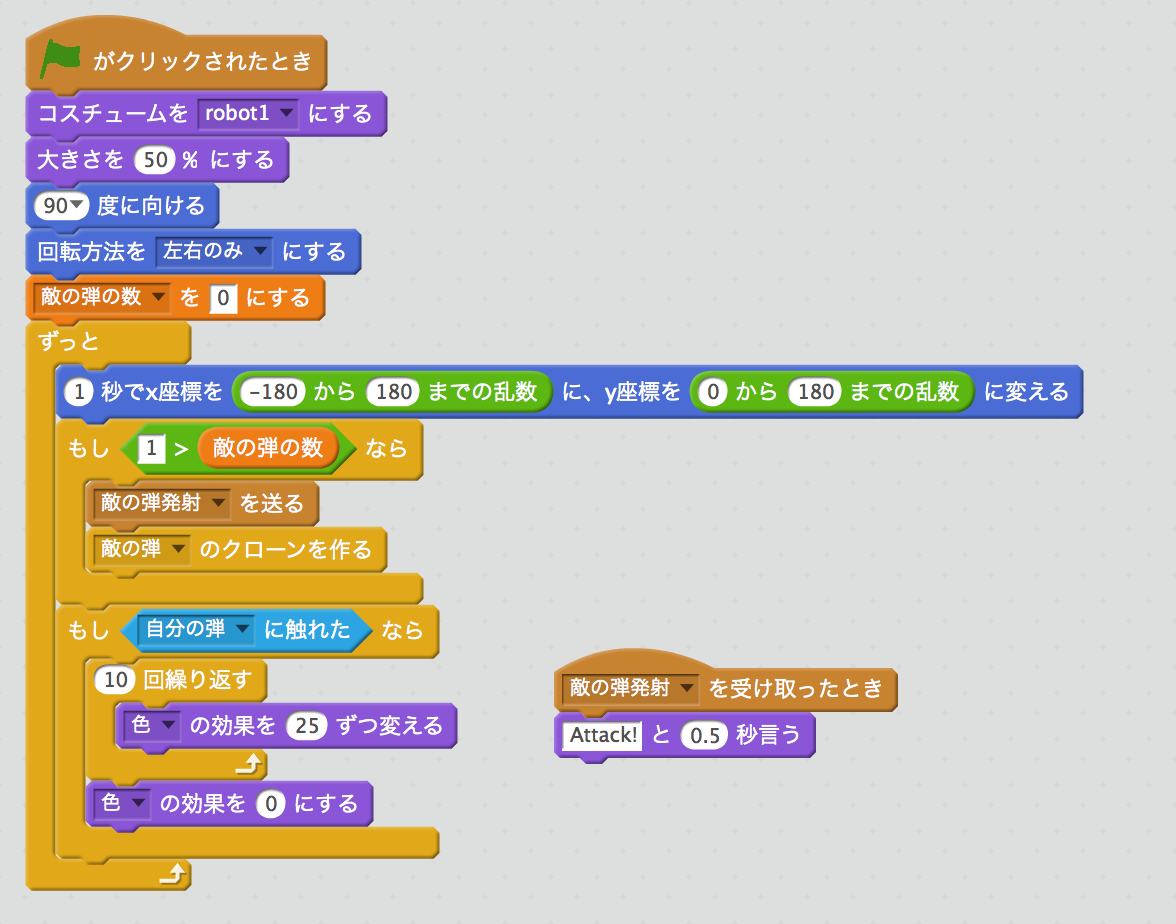
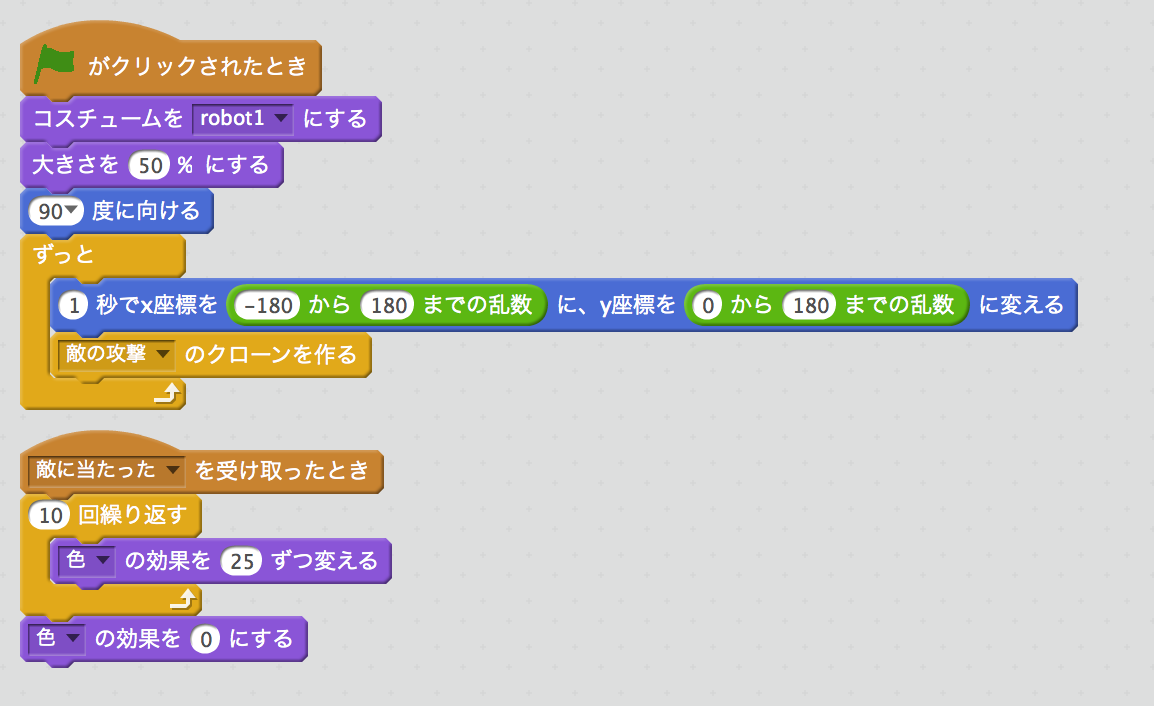
作成手順（途中）

Changed region(s): [[0.0, 0.0, 0.9359, 0.966], [0.4679, 0.6856, 0.7799, 0.8414]]

diff --git a/FirstMission.md b/FirstMission.md
@@ -7,21 +7,71 @@ https://scratch.mit.edu/projects/68155398/
 
 ## 作成手順
 
-### プレイヤーキャラクターの作成
+### プレイヤーキャラクターの表示と移動
 
-1. "プレイヤー"スプライトに好きなキャラクタを設定。
+1. "プレイヤー"スプライトにキャラクタを設定  
+デフォルトのスプライトをプレイヤーが操作するキャラクターとして、"プレイヤー"と名前をつけ好きな画像を設定します。
 
-1. 自分キャラクターの移動処理を作成。
+1. 最初の表示処理  
+スタート時の表示処理を以下の通り作成。これらは無くても動作上問題ないけれど、プログラムを作っている途中でスプライトの状態が変わってしまっても必ず決まった状態でスタートさせることができる。大きさの指定は使うす画像の大きさに合わせて変更する。  
+![プレイヤーの初期表示処理](images/player01.png)
 
-カーソルの左右キーで、プレイヤーを移動。
+1. 自分キャラクターの移動処理  
+カーソル左右キーを押した時の処理を以下の通り作成。
+![プレイヤーの移動処理](images/player02.png)
+「◯◯キーが押された、ではない、まで繰り返す」としているのは、一度キーが押されたら離されるまでずっと移動し続けるためです。
+以下のような処理でも操作はできるようになりますが、キーが離されるまで移動し続ける処理にした方がスムーズに動きます。
+![プレイヤーの移動処理のダメな例](images/player03.png)
 
-![自分キャラの移動](images/move01.png)
+### 敵キャラクターの表示と移動
 
-1. 自分キャラクターの攻撃用スプライトと攻撃処理を作成。
-	* 弾の座標を自分のキャラクターの座標に合わせるには、「○○へ行く」を使う。
-	* 弾のスプライトは、描いた後中央設定をきちんとしておくこと。でないと発射位置がずれる。
+1. 新しいスプライトを敵にキャラクタを設定。  
+新しいスプライトを作成し、"敵"と名前をつけます。
 
-1. 自分のキャラクターを複製して、敵キャラの元を作成。
-1. 自分キャラクターの攻撃用スプライトを複製して、敵の攻撃用スプライトを作る。
-1. 敵キャラの移動処理を変更。
-1. キャラの攻撃処理を変更。
+1. 初期表示処理  
+プレイヤーの時と同様に、初期表示処理を作成します。
+![敵キャラの初期表示処理](images/enemy01.png)
+
+1. 敵キャラの移動処理
+敵キャラは、画面の上半分を自由に移動するように以下の処理を作成します。ここで使っているのは、指定した時間で指定した場所へキャラクタを移動させる部品です。時間を長くするとゆっくり、短くすると速く動きます。ここでは、画面の横方向を端から端まで表示させるために-180から180までを乱数で、縦方向は上半分までを移動させるために0から180までの乱数を使って、ランダムに動くようにしています。
+![敵キャラの移動処理](images/enemy02.png)
+
+### プレイヤーの攻撃
+
+1. 攻撃用スプライトの作成  
+まず、プレイヤーが発射する弾のスプライトを新しいスプライトとして作成し、「プレイヤーの攻撃」と名前をつけます。ライブラリから好きな素材を選んでもいいですし、自分で描いてもいいです。自分で描く場合は「ベクターモード」で描きましょう。「ベクターモード」の方が、綺麗なまま画像を拡大縮小できます。  
+また、「コスチュームの中心」を合わせておきましょう。これをやっておかないと、キャラクタと発射する弾の表示がズレることがあります。「コスチュームの中心」は、「コスチューム」画面の右上にある十字のボタンで合わせられます。
+
+1. 初期表示処理
+攻撃用スプライトは、ゲーム開始時には非表示で、攻撃動作を行った時に表示されなければなりませんので、ゲーム開始時には非表示とします。
+![攻撃用スプライトの初期表示](images/player-attack01.png)
+
+1. 攻撃操作処理
+プレイヤー側は、「スペースキー」を攻撃用操作とします。「プレイヤー」スプライトの中（「プレイヤーの攻撃」ではありません）に「スペースキー」が押された時に先ほど作った「攻撃用スプライト」をクローンする処理を作ります。クローンとはスプライトのコピーを作る機能で、同じキャラクタを複数作ったり、弾をたくさん発射するといったことができます。最後に「0.5秒待つ」を入れているのは、連射になるのを防ぐためです。これを外してスペースキーを押しっぱなしにすると、画面上が弾だらけになるほど連射ができます。
+![攻撃操作処理](images/player-attack02.png)
+
+1. 弾丸スプライト表示処理  
+プレイヤーの操作が行われた時に、弾丸スプラインを移動する処理を以下の通り作成します。  
+処理の開始は、「クローンされた時」になります。このスプライトは最初「非表示」になっているので、プレイヤーのスプライトなどと同じように大きさの設定をし、「プレイヤーへ行く」を実行した後、「表示」を実行します。「プレイヤーへ行く」を実行しているのは、弾丸はプレイヤーと同じ場所から移動を開始しないといけないので、この処理でプレイヤーと同じ場所から表示されるようにするためです。
+![弾丸表示処理](images/player-attack03.png)  
+
+1. 弾丸スプライト移動と当たり判定処理  
+次にこの弾丸を移動する処理を続けて作成します。弾丸は、画面の端に到達するか敵に当たると消えなければならないので、どちらかの条件で「クローンを削除する」を実行します。クローンを削除するとこの弾丸の動作を終了して画面から消えます。  
+ただし、何もせずに消えてしまっては当たったかどうかわからないので、「敵に触れた」時に特別な処理ができるよう「クローンを削除」する前に「敵にあたった」というメッセージを送って、敵キャラに処理を実行させるようにします。  
+![弾丸移動処理](images/player-attack04.png)  
+
+1. 敵への命中処理
+敵に弾丸が当たった時あたったことがわかるよう、「敵」スプライトに色を変える処理を追加します。ここでは、色の効果を変える処理を10回繰り返して、点滅のような表示をし最後に元の色に戻しています。  
+![命中処理](images/player-attack05.png)  
+
+### 敵キャラの攻撃
+
+1. 攻撃用スプライトの作成  
+敵キャラの攻撃用スプライトは、プレイヤーの弾丸を複製して作ります。画面左下のスプライトの一覧から「プレイヤーの弾丸」を右クリックして複製します。プログラムそのものはプレイヤーも敵も同じですが、当たり判定の対象などが違いますので、以下の部分を変更します。
+	- 「プレイヤーへ行く」→「敵へ行く」
+	- Y座標の変化量をマイナスの数値に。
+	- 「もし敵に触れた」→「もしプレイヤーに触れた」
+	- 「敵に命中」→「プレイヤーに命中」
+![敵キャラの弾丸スプライト処理](images/enemy-attack.png)
+
+
